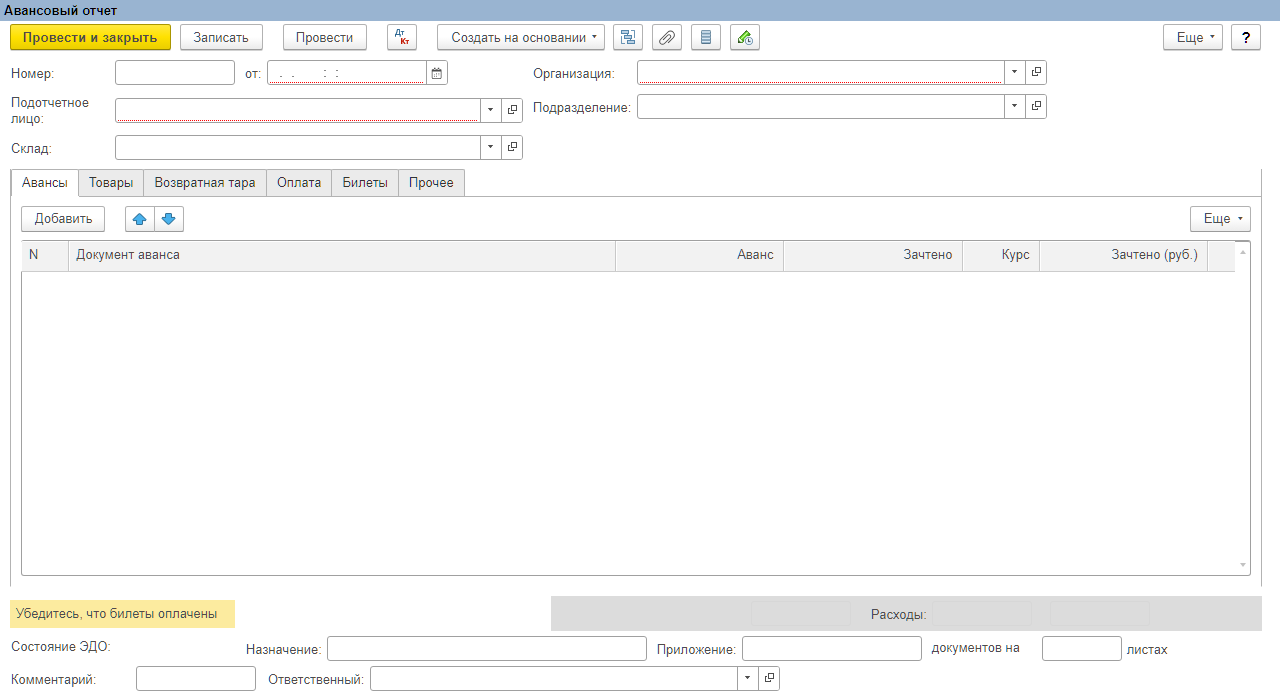
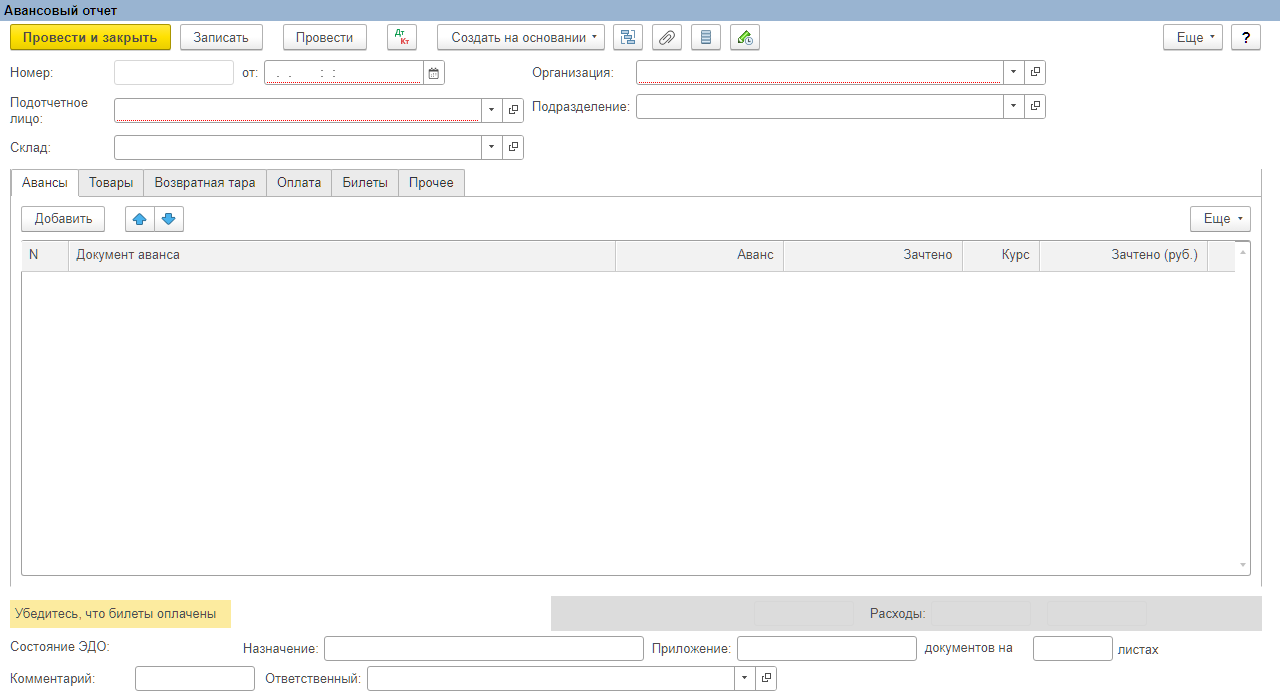
docs(forms): замер круга — 14 376 → 13 215 различающихся пикселя
Новый раздел «Сверка после автонумерации, значка Дт/Кт и рамок полей»:
таблица индексов свойств объекта, что проверено и отброшено (тень правой
грани, padding-top, CSS-сдвиг подписи), что осталось. Скриншот формы
переснят текущим рендерером при 1280×700.

diff --git a/CHANGELOG.md b/CHANGELOG.md
@@ -4,6 +4,22 @@
 
 ### Исправлено
 
+- Точный вид: поле «Номер» документа рисуется неактивным, как в конфигураторе.
+  При включённой автонумерации платформа держит «Номер» недоступным до записи,
+  и рамка поля светлее (#d7d7d7 вместо #a0a0a0). Рендерер это умеет, но в
+  `objectMeta` флаг записывался пустой строкой. Теперь `FormOwner.cpp` читает
+  автонумерацию из списка свойств объекта (15-е поле, 0/1; одинаково у
+  документа и у справочника) и `buildObjectMeta` передаёт её рендереру.
+- Точный вид: значок Дт/Кт в полосе команд окрашен в палитру платформы
+  (#009646/#df4343): в наборе BslEdit рисунок был синим и тёмно-красным.
+- Точный вид: содержимое строк полей начинается с края ячейки. У оболочки
+  `.fp-item.fp-control` прозрачная рамка 1 px при `box-sizing: border-box`
+  сдвигала подпись «Номер:» на 11 вместо 10, а рамку поля — на 115…234 вместо
+  114…234.
+- Точный вид: однострочная подпись поля встаёт на 1 px выше — строки 67…79
+  вместо 68…80, как в эталоне. `viewer.css` поднимает подпись левого заголовка
+  на 1 px; перенесённой подписи («Подотчетное лицо:») этот сдвиг не нужен,
+  поэтому высота подписи меряется в `model-app.js` (`alignFieldTitles`).
 - Точный вид: панель команд формы начинается по краю рамки. `viewer.css`
   держит у полосы `padding-left: 2px`, и первая кнопка вставала на x=12:
   жёлтая заливка «Провести и закрыть» занимала 13…171 вместо 11…169, а вместе с
@@ -55,10 +71,11 @@
   флагом Chromium дорожку не занимает и снимок мерил не то, что видно.
 
 Суммарный эффект сверки с конфигуратором по форме «Авансового отчёта»
-(988×438, порог 24 на канал): 26 838 → 14 376 различающихся пикселя
-(6,2 % → 3,32 %). Замеры и оставшиеся расхождения — в
+(988×438, порог 24 на канал): 26 838 → 13 215 различающихся пикселя
+(6,2 % → 3,05 %). Замеры и оставшиеся расхождения — в
 `docs/form-exact-view.md`, разделы «Сверка после правки дорожки прокрутки
-таблицы» и «Сверка после правки панели команд».
+таблицы», «Сверка после правки панели команд» и «Сверка после автонумерации,
+значка Дт/Кт и рамок полей».
 
 ## [0.11.0] — 2026-11-24
 
